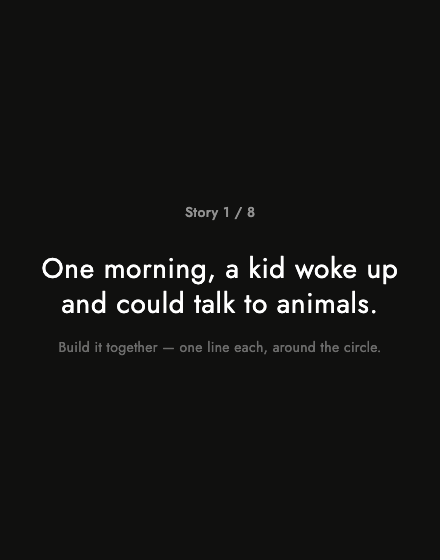
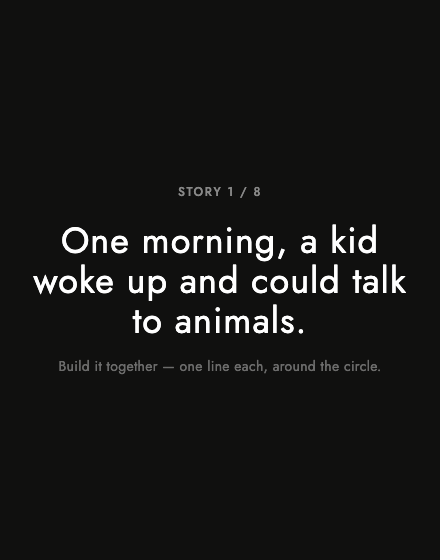
fix(games): route story through the frame + charades hero via contract (critic pass)
The gallery-critic's post-cohesion re-review confirmed the deck reads as
one calm system, and caught the one stage lever 3 missed:
- story_starters now uses GameStage.frame + GameStage.hero + the
  tracked-caps eyebrow (was a hand-rolled body-text "Story 1/8" label +
  a smaller headlineMedium hero — the last frame outlier).
- GameStage.hero gains an optional `color`, so charades' accent-coloured
  category goes through the shared contract instead of matching the white
  hero's size/weight by coincidence.
- Cleaned the stale fontSize:240/w900 reference in game_stage's doc.

flutter analyze clean; story + charades goldens re-rendered. Closes the
gallery-critic loop on the cohesion pass.

Changed region(s): [[0.0591, 0.3339, 0.9159, 0.6679]]

diff --git a/lib/features/games/games/story_starters_game.dart b/lib/features/games/games/story_starters_game.dart
@@ -1,5 +1,6 @@
 import 'package:differentworld/features/activity_runtime/content_bank.dart';
 import 'package:differentworld/features/games/game.dart';
+import 'package:differentworld/features/games/game_stage.dart';
 import 'package:flutter/material.dart';
 
 /// Story Starters on the unified framework. An opener shows big; the room
@@ -154,77 +155,56 @@ class StoryStartersGame extends GameDefinition<StoryState> {
         ),
       );
     }
-    return Center(
-      child: ConstrainedBox(
-        constraints: const BoxConstraints(maxWidth: 600),
-        child: SingleChildScrollView(
-          padding: const EdgeInsets.all(24),
-          child: Column(
-            mainAxisSize: MainAxisSize.min,
-            children: [
-              Text(
-                'Story ${s.index + 1} / ${s.total}',
-                style: const TextStyle(
-                  color: Colors.white54,
-                  fontWeight: FontWeight.w500,
-                ),
-              ),
-              const SizedBox(height: 28),
-              Text(
-                s.starter,
-                textAlign: TextAlign.center,
-                style: theme.textTheme.headlineMedium?.copyWith(
-                  color: Colors.white,
-                  fontWeight: FontWeight.w400,
-                  height: 1.25,
-                ),
-              ),
-              const SizedBox(height: 16),
-              Text(
-                'Build it together — one line each, around the circle.',
-                textAlign: TextAlign.center,
-                style: theme.textTheme.bodyMedium?.copyWith(
-                  color: Colors.white38,
-                ),
-              ),
-              if (s.hasTwist) ...[
-                const SizedBox(height: 24),
-                Container(
-                  width: double.infinity,
-                  padding: const EdgeInsets.all(18),
-                  decoration: BoxDecoration(
-                    color: vibe.accent.withValues(alpha: 0.16),
-                    borderRadius: BorderRadius.circular(18),
-                    border:
-                        Border.all(color: vibe.accent.withValues(alpha: 0.6)),
-                  ),
-                  child: Column(
-                    children: [
-                      const Text(
-                        '✨ PLOT TWIST',
-                        style: TextStyle(
-                          color: Color(0xFFFFCA62),
-                          fontWeight: FontWeight.w500,
-                          letterSpacing: 1.5,
-                          fontSize: 12,
-                        ),
-                      ),
-                      const SizedBox(height: 8),
-                      Text(
-                        s.twist,
-                        textAlign: TextAlign.center,
-                        style: theme.textTheme.titleMedium?.copyWith(
-                          color: Colors.white,
-                          fontWeight: FontWeight.w500,
-                        ),
-                      ),
-                    ],
-                  ),
-                ),
-              ],
-            ],
+    return GameStage.frame(
+      context,
+      eyebrow: 'Story ${s.index + 1} / ${s.total}',
+      hero: GameStage.hero(context, s.starter),
+      body: Column(
+        mainAxisSize: MainAxisSize.min,
+        children: [
+          const SizedBox(height: 16),
+          Text(
+            'Build it together — one line each, around the circle.',
+            textAlign: TextAlign.center,
+            style: theme.textTheme.bodyMedium?.copyWith(
+              color: Colors.white38,
+            ),
           ),
-        ),
+          if (s.hasTwist) ...[
+            const SizedBox(height: 24),
+            Container(
+              width: double.infinity,
+              padding: const EdgeInsets.all(18),
+              decoration: BoxDecoration(
+                color: vibe.accent.withValues(alpha: 0.16),
+                borderRadius: BorderRadius.circular(18),
+                border: Border.all(color: vibe.accent.withValues(alpha: 0.6)),
+              ),
+              child: Column(
+                children: [
+                  const Text(
+                    '✨ PLOT TWIST',
+                    style: TextStyle(
+                      color: Color(0xFFFFCA62),
+                      fontWeight: FontWeight.w500,
+                      letterSpacing: 1.5,
+                      fontSize: 12,
+                    ),
+                  ),
+                  const SizedBox(height: 8),
+                  Text(
+                    s.twist,
+                    textAlign: TextAlign.center,
+                    style: theme.textTheme.titleMedium?.copyWith(
+                      color: Colors.white,
+                      fontWeight: FontWeight.w500,
+                    ),
+                  ),
+                ],
+              ),
+            ),
+          ],
+        ],
       ),
     );
   }

diff --git a/lib/features/games/game_stage.dart b/lib/features/games/game_stage.dart
@@ -2,22 +2,27 @@ import 'package:differentworld/app/design_tokens.dart';
 import 'package:flutter/material.dart';
 
 /// On-brand type + structure for game stages (docs/GAMES.md — the "fully calm"
-/// pass). Stages compose from these instead of hand-rolling
-/// `TextStyle(fontSize: 240, w900)`: the big serif HERO (Fraunces, via the
-/// theme ramp), the tracked-caps EYEBROW, and a centered, width-clamped FRAME
-/// with generous air — white-on-dark for the immersive surface. One calm voice
-/// across every stage, so the deck reads as one system.
+/// pass). Stages compose from these instead of hand-rolling oversized bold
+/// text: the big serif HERO (Fraunces, via the theme ramp), the tracked-caps
+/// EYEBROW, the score COUNTER, the choice OPTION pill, and a centered,
+/// width-clamped FRAME with generous air — white-on-dark for the immersive
+/// surface. One calm voice across every stage, so the deck reads as one system.
 abstract final class GameStage {
   /// The serif hero — the prompt / question / answer / answer-reveal. Big,
   /// centered, LIGHT weight (the brand voice; not a w900 shout).
-  static Widget hero(BuildContext context, String text, {int maxLines = 4}) =>
+  static Widget hero(
+    BuildContext context,
+    String text, {
+    int maxLines = 4,
+    Color? color,
+  }) =>
       Text(
         text,
         textAlign: TextAlign.center,
         maxLines: maxLines,
         overflow: TextOverflow.ellipsis,
         style: Theme.of(context).textTheme.displaySmall?.copyWith(
-              color: Colors.white,
+              color: color ?? Colors.white,
               fontWeight: FontWeight.w400,
               height: 1.12,
             ),

diff --git a/lib/features/games/games/charades_game.dart b/lib/features/games/games/charades_game.dart
@@ -125,18 +125,10 @@ class CharadesGame extends GameDefinition<CharadesState> {
   @override
   Widget buildStage(BuildContext context, CharadesState s) {
     if (s.done) return _wrap(context, s);
-    final theme = Theme.of(context);
     return GameStage.frame(
       context,
       eyebrow: 'Act it out — no words',
-      hero: Text(
-        s.category,
-        textAlign: TextAlign.center,
-        style: theme.textTheme.displaySmall?.copyWith(
-          color: vibe.accent,
-          fontWeight: FontWeight.w400,
-        ),
-      ),
+      hero: GameStage.hero(context, s.category, color: vibe.accent),
       body: Padding(
         padding: const EdgeInsets.only(top: 24),
         child: GameStage.counter(
